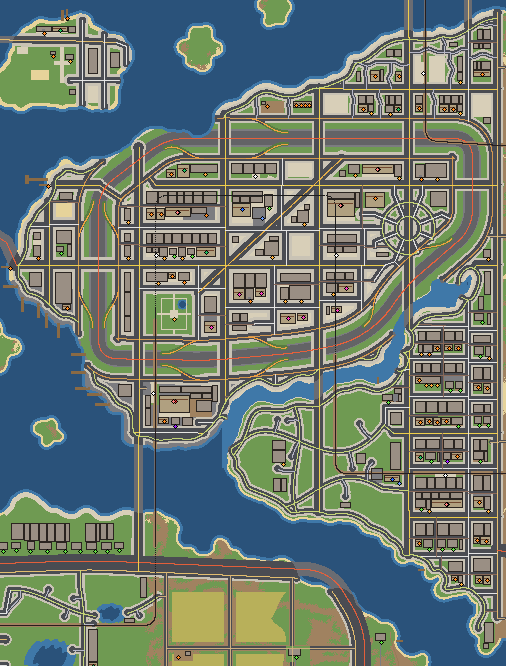
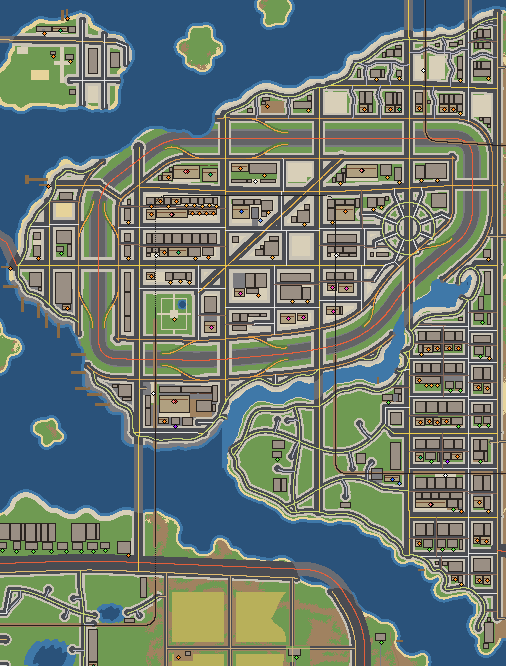
World v2 core: North Boulevard and High Street curve; alleys follow them
Claude-Session: https://claude.ai/code/session_015TdwbASoLBxZr1VoEZGToX

diff --git a/shared/metro.js b/shared/metro.js
@@ -26,15 +26,20 @@ const lerp = (a, b, t) => a + (b - a) * t;
 
 // The avenues (two lanes each way, a median): north-south ones cross the whole island and carry on over
 // the bridges (868 and 958 south over the river, 958 north to Northshore, 688 south to Cedar Isle),
-// east-west ones run from coast to coast (556 is the Bay Bridge's way into town).
+// east-west ones run from coast to coast (556 is the Bay Bridge's way into town). bow: a gentle curve,
+// amp tiles at its middle, between x0 and x1 (North Boulevard sweeps south through the core, High
+// Street follows the Old Town shore).
 export const AVES_X = [
   { x: 598.5, name: 'Shore Avenue' }, { x: 688.5, name: 'Cedar Avenue' }, { x: 774.5, name: 'Central Avenue' },
   { x: 868.5, name: 'Bridge Avenue', bridge: true }, { x: 958.5, name: 'Northbridge Avenue', bridge: true },
 ];
 export const AVES_Y = [
-  { y: 380.5, name: 'High Street', from: 770 }, { y: 476.5, name: 'North Avenue' }, { y: 556.5, name: 'Bay Avenue' },
+  { y: 380.5, name: 'High Street', from: 770, bow: { amp: -4, x0: 770, x1: 1047 } }, { y: 476.5, name: 'North Boulevard', kind: 'blvd', bow: { amp: 7, x0: 660, x1: 1010 } },
+  { y: 556.5, name: 'Bay Avenue' },
   { y: 724.5, name: 'Southside Avenue' }, { y: 808.5, name: 'Dock Avenue' },
 ];
+export const aveY = (a, x) => (a.bow && x > a.bow.x0 && x < a.bow.x1 ? a.y + a.bow.amp * Math.sin(Math.PI * (x - a.bow.x0) / (a.bow.x1 - a.bow.x0)) : a.y);
+const CURVED = new Map(AVES_Y.filter((a) => a.bow).map((a) => [a.y, (x) => aveY(a, x)]));
 // Through streets that aren't avenues: Harbor Street (Old Town's way to the Harbor Bridge north, and on
 // south through Southside) and the two streets round Greenfield Park.
 const THROUGH = [
@@ -131,8 +136,10 @@ export function metroRoads(ctx) {
   }
   let westEnd = null;
   for (const a of AVES_Y) {
-    for (const pts of clipLine([{ x: T(a.from || 520), y: T(a.y) }, { x: T(1060), y: T(a.y) }], okAve(false, false), 8 * TILE)) {
-      const l = { pts, kind: 'ave', lvl: 0, name: a.name, hy: a.y };
+    const line = [];
+    for (let x = a.from || 520; x <= 1060; x += 4) line.push({ x: T(x), y: T(aveY(a, x)) });
+    for (const pts of clipLine(line, okAve(false, false), 8 * TILE)) {
+      const l = { pts, kind: a.kind || 'ave', lvl: 0, name: a.name, hy: a.y };
       lines.push(l); aves.push(l);
       if (a.y === 556.5 && (!westEnd || pts[0].x < westEnd.x)) westEnd = pts[0];
     }
@@ -177,8 +184,9 @@ export function metroRoads(ctx) {
     }
     ys.push(cell.y1);
     const wob = (seed, v, amp, lam) => (amp ? amp * (0.62 * Math.sin(v / lam * Math.PI * 2 + hash(seed, 1, 5) * 6.28) + 0.38 * Math.sin(v / (lam * 0.47) * Math.PI * 2 + hash(seed, 2, 5) * 6.28)) : 0);
-    // the east-west street k at x (Old Town's lanes wander)
-    const ewY = (k, x) => (k === 0 || k === ys.length - 1 ? ys[k] : ys[k] + wob(ys[k] * 13 + cell.seed, x, (P(x, ys[k]) || P0).wobble || 0, 38));
+    // the east-west street k at x (Old Town's lanes wander; a curving avenue along the cell's edge curves)
+    const edgeY = (k, x) => { const f = CURVED.get(ys[k]); return f ? f(x) : ys[k]; };
+    const ewY = (k, x) => (k === 0 || k === ys.length - 1 ? edgeY(k, x) : ys[k] + wob(ys[k] * 13 + cell.seed, x, (P(x, ys[k]) || P0).wobble || 0, 38));
     const ewKind = (k) => ((P(midX, ys[k]) || P0).lane || 'st');
     for (let k = 1; k + 1 < ys.length; k++) {
       const pts = [];
@@ -224,8 +232,12 @@ export function metroRoads(ctx) {
         const h = hash(cx, ym, cell.seed + 53);
         if (hash(cx, ym, cell.seed + 59) < p.plaza && x1 - x0 < 80 && yb - ya < 70) { plazas.push({ x0, y0: ya, x1, y1: yb }); continue; }
         if (yb - ya >= p.alleyMin && h < p.alley) {
-          const ay = Math.floor(ya + (yb - ya) * (0.48 + (hash(cx, ym, cell.seed + 61) - 0.5) * 0.12)) + 0.5;
-          const pts = [{ x: T(x0), y: T(ay) }, { x: T(x1), y: T(ay) }];
+          // along the middle of the block (a straight alley on tile centres; parallel to a curving street)
+          const f = 0.48 + (hash(cx, ym, cell.seed + 61) - 0.5) * 0.12;
+          const curved = CURVED.has(ya) || CURVED.has(yb) || (P(cx, ya) || P0).wobble;
+          const pts = [];
+          if (!curved) { const ay = Math.floor(ya + (yb - ya) * f) + 0.5; pts.push({ x: T(x0), y: T(ay) }, { x: T(x1), y: T(ay) }); }
+          else for (let x = x0; x <= x1 + 0.01; x += 2) { const xx = Math.min(x, x1); pts.push({ x: T(xx), y: T(lerp(ewY(k, xx), ewY(k + 1, xx), f)) }); }
           for (const piece of clipLine(pts, okLocal(false), 6 * TILE, 12)) lines.push({ pts: piece, kind: 'alley', lvl: 0, name: 'Service Alley' });
         }
         if (x1 - x0 >= p.passMin && hash(cx, ym, cell.seed + 67) < p.passage) {

diff --git a/shared/map.js b/shared/map.js
@@ -879,7 +879,7 @@ function layoutRoads(m, rand) {
 
   // highway slip ramps: diamond-free "Texas" style onto the one-way frontage roads
   const crossS = [];
-  for (const g of metro.aves.filter((q) => q.kind === 'ave')) {
+  for (const g of metro.aves.filter((q) => q.kind === 'ave' || q.kind === 'blvd')) {
     for (let k = 0; k + 1 < g.pts.length; k++) {
       for (let j = 0; j + 1 < ring.length; j++) {
         const a = g.pts[k], b = g.pts[k + 1], c = ring[j], d = ring[j + 1];

diff --git a/docs/DEVLOG.md b/docs/DEVLOG.md
@@ -1911,7 +1911,9 @@ Everything here is client-side. Server, shared code and the network are unchange
   - deep blocks get a service alley along the middle (the south row fronts the street below, facing the camera; the north row backs onto the alley), long ones now and then a passage; downtown and the civic quarter leave the odd block open as a plaza;
   - Old Town's lanes are narrow (`minor`, no signals) and wander;
   - odd-width roads (avenues, alleys) run on tile centres, even ones on tile edges, so the tile raster is exactly as wide as the road drawn over it.
+- **North Boulevard** sweeps gently south through the core (7 tiles at its middle) and **High Street** follows the Old Town shore: the blocks along them, their side streets and the service alleys behind them follow the curve, so the avenues don't make a lattice.
 - The ring's ramps are found from the new avenues; the Bay, North, Harbor and Cedar bridges join the new avenue ends. Greenfield Park is ringed by Park Street and Park Lane.
+- Along Broadway and the curving streets, small buildings step along the street's edge (axis-aligned boxes, `fillScraps`) instead of leaving a sawtooth of empty paving.
 
 ### Pavements by district class (switched on)
 - Downtown 112 px, commercial 96 px (Midtown, the Civic Center, Neon Strip, Pink Mile, the beachfronts), everywhere else 64 px - on every island, so the other cities' blocks shrink a little too. Span-wire signals look for the corner walls across the wider pavements.
